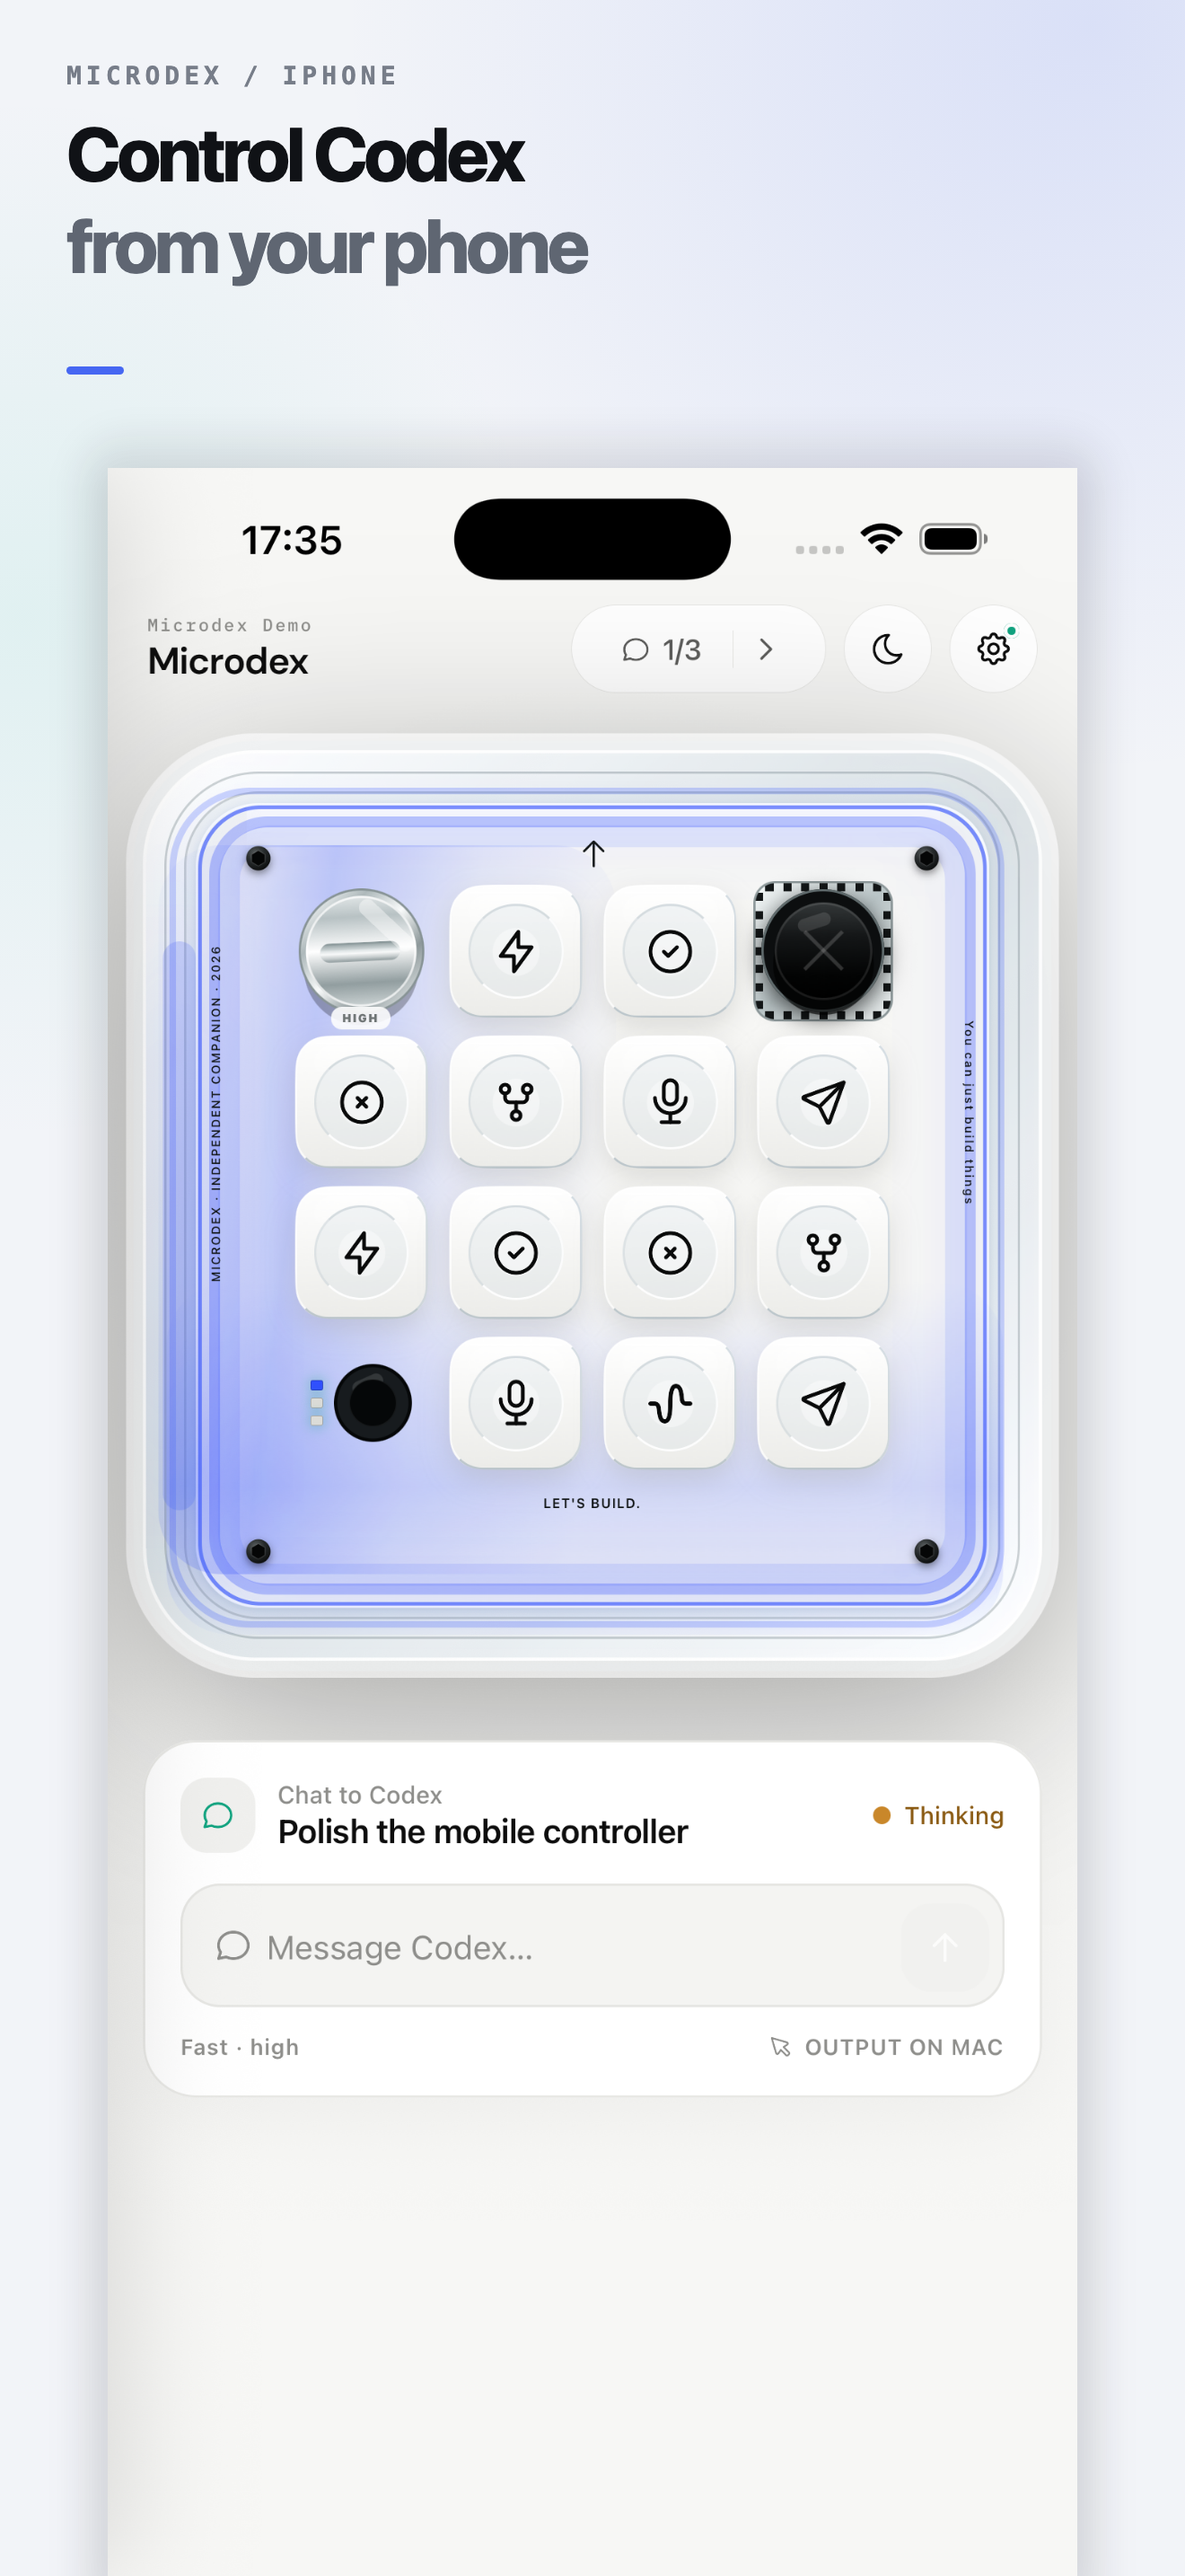
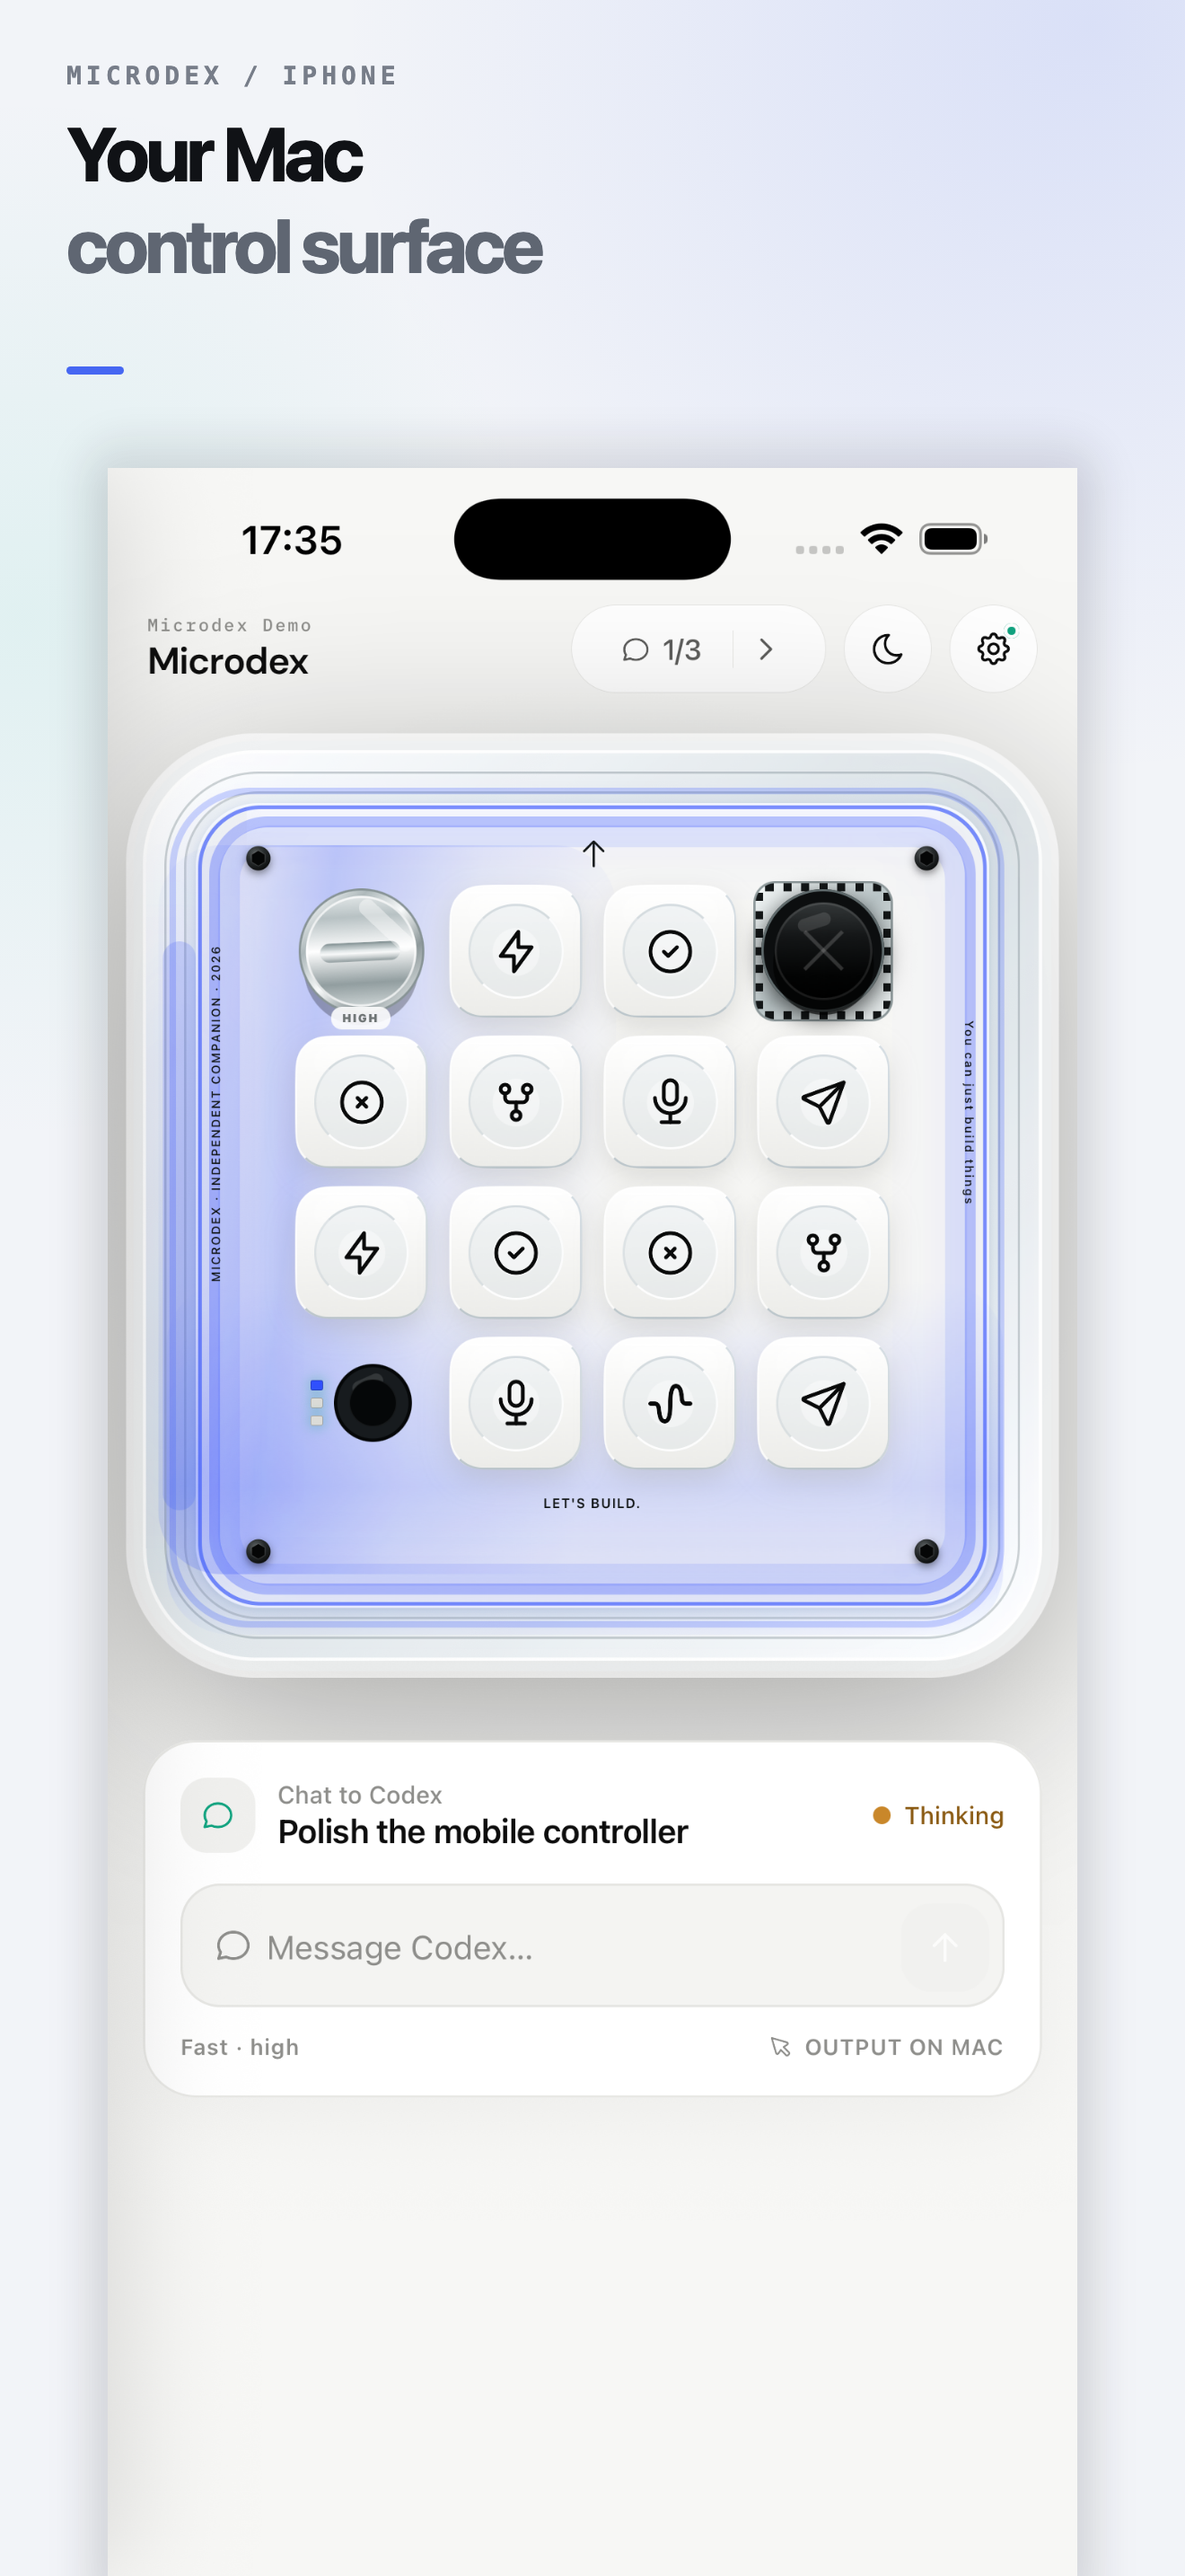
Corregge i rilievi di App Review

Changed region(s): [[0.0621, 0.031, 0.497, 0.1241]]

diff --git a/mobile/app/index.tsx b/mobile/app/index.tsx
@@ -1,4 +1,4 @@
-import { CameraView, useCameraPermissions } from 'expo-camera';
+import { CameraView } from 'expo-camera';
 import * as Clipboard from 'expo-clipboard';
 import * as Haptics from 'expo-haptics';
 import * as Linking from 'expo-linking';
@@ -46,6 +46,7 @@ import { ReasoningDial } from '@/components/reasoning-dial';
 import { DismissibleSheet, SheetHandlePill } from '@/components/sheet-dismiss-handle';
 import { RaisedShell, Screw, ShellPool, getSkeuo, useSkeuo } from '@/components/skeuo';
 import { VoiceKey } from '@/components/voice-key';
+import { usePairingScanner } from '@/hooks/use-pairing-scanner';
 import { useVoiceMode } from '@/hooks/use-voice-mode';
 import {
   BridgeStatus,
@@ -286,7 +287,6 @@ export default function ControllerScreen() {
   const chatDrawerRef = useRef<ChatDrawerHandle>(null);
   const liveStatusPulse = useRef(new Animated.Value(0.62)).current;
   const [settingsVisible, setSettingsVisible] = useState(false);
-  const [scannerVisible, setScannerVisible] = useState(false);
   const [consentVisible, setConsentVisible] = useState(false);
   const [consentContinuation, setConsentContinuation] =
     useState<ConsentContinuation>(null);
@@ -294,7 +294,6 @@ export default function ControllerScreen() {
   const [infoSheet, setInfoSheet] = useState<InfoSheet | null>(null);
   const [commandCopied, setCommandCopied] = useState(false);
   const commandCopiedTimer = useRef<ReturnType<typeof setTimeout> | null>(null);
-  const [cameraPermission, requestCameraPermission] = useCameraPermissions();
   const [credentialsReady, setCredentialsReady] = useState(VISUAL_PREVIEW);
   const [bridgeConnecting, setBridgeConnecting] = useState(false);
   const [loadingAction, setLoadingAction] = useState<string | null>(null);
@@ -467,6 +466,19 @@ export default function ControllerScreen() {
     setNotice(message);
     setNoticeError(isError);
   }, []);
+
+  const dismissSettingsForScanner = useCallback(() => {
+    setSettingsVisible(false);
+  }, []);
+  const {
+    scannerVisible,
+    scannerOpening,
+    setScannerVisible,
+    presentPairingScanner,
+  } = usePairingScanner({
+    announce,
+    dismissSettings: dismissSettingsForScanner,
+  });
 
   const bridgeRequest = useCallback(async <T,>(
     candidateUrl: string,
@@ -912,23 +924,6 @@ export default function ControllerScreen() {
       pairingInFlight.current = false;
     }
   }, [announce, connectToBridge]);
-
-  const presentPairingScanner = useCallback(async () => {
-    if (Platform.OS === 'web') {
-      announce('QR pairing is available on iPhone and Android.', true);
-      return;
-    }
-    let permission = cameraPermission;
-    if (!permission?.granted) permission = await requestCameraPermission();
-    if (!permission.granted) {
-      announce('Camera permission is needed to scan the pairing QR.', true);
-      return;
-    }
-    // iOS cannot reliably present the camera modal while the Settings modal
-    // is still being dismissed. Close it first, then present the scanner.
-    setSettingsVisible(false);
-    setTimeout(() => setScannerVisible(true), Platform.OS === 'ios' ? 320 : 0);
-  }, [announce, cameraPermission, requestCameraPermission]);
 
   const openPairingScanner = useCallback(async () => {
     if (!aiConsent) {
@@ -2266,13 +2261,21 @@ export default function ControllerScreen() {
                   </Pressable>
                   <Pressable
                     accessibilityRole="button"
+                    accessibilityState={{ busy: scannerOpening, disabled: scannerOpening }}
+                    disabled={scannerOpening}
                     onPress={() => void openPairingScanner()}
                     style={({ pressed }) => [
                       styles.gateSecondaryButton,
                       pressed && styles.gateButtonPressed,
                     ]}>
-                    <MicrodexIcon name="qrCode" size={17} color={theme.text} />
-                    <Text style={styles.gateSecondaryButtonText}>Pair another Mac</Text>
+                    {scannerOpening ? (
+                      <ActivityIndicator size="small" color={theme.text} />
+                    ) : (
+                      <MicrodexIcon name="qrCode" size={17} color={theme.text} />
+                    )}
+                    <Text style={styles.gateSecondaryButtonText}>
+                      {scannerOpening ? 'Opening camera…' : 'Pair another Mac'}
+                    </Text>
                   </Pressable>
                   <Pressable
                     accessibilityRole="button"
@@ -2345,13 +2348,21 @@ export default function ControllerScreen() {
 
                   <Pressable
                     accessibilityRole="button"
+                    accessibilityState={{ busy: scannerOpening, disabled: scannerOpening }}
+                    disabled={scannerOpening}
                     onPress={() => void openPairingScanner()}
                     style={({ pressed }) => [
                       styles.gatePrimaryButton,
                       pressed && styles.gateButtonPressed,
                     ]}>
-                    <MicrodexIcon name="qrCode" size={17} color={theme.bg} />
-                    <Text style={styles.gatePrimaryButtonText}>Scan pairing code</Text>
+                    {scannerOpening ? (
+                      <ActivityIndicator size="small" color={theme.bg} />
+                    ) : (
+                      <MicrodexIcon name="qrCode" size={17} color={theme.bg} />
+                    )}
+                    <Text style={styles.gatePrimaryButtonText}>
+                      {scannerOpening ? 'Opening camera…' : 'Scan pairing code'}
+                    </Text>
                   </Pressable>
 
                   <Pressable
@@ -3269,13 +3280,21 @@ export default function ControllerScreen() {
                 <Pressable
                   accessibilityRole="button"
                   accessibilityLabel="Scan computer pairing QR"
+                  accessibilityState={{ busy: scannerOpening, disabled: scannerOpening }}
+                  disabled={scannerOpening}
                   onPress={() => void openPairingScanner()}
                   style={({ pressed }) => [
                     styles.settingsPrimaryButton,
                     pressed && styles.gateButtonPressed,
                   ]}>
-                  <MicrodexIcon name="qrCode" size={16} color={theme.bg} />
-                  <Text style={styles.settingsPrimaryButtonText}>Scan pairing code</Text>
+                  {scannerOpening ? (
+                    <ActivityIndicator size="small" color={theme.bg} />
+                  ) : (
+                    <MicrodexIcon name="qrCode" size={16} color={theme.bg} />
+                  )}
+                  <Text style={styles.settingsPrimaryButtonText}>
+                    {scannerOpening ? 'Opening camera…' : 'Scan pairing code'}
+                  </Text>
                 </Pressable>
                 {noticeError ? (
                   <View style={[styles.notice, styles.noticeError]}>

diff --git a/mobile/hooks/use-pairing-scanner.ts b/mobile/hooks/use-pairing-scanner.ts
@@ -1,0 +1,100 @@
+import { useCameraPermissions } from 'expo-camera';
+import * as Haptics from 'expo-haptics';
+import * as Linking from 'expo-linking';
+import { useCallback, useRef, useState } from 'react';
+import { Alert, Platform } from 'react-native';
+
+import {
+  cameraPermissionMessage,
+  cameraPermissionStep,
+} from '@/lib/pairing-scanner';
+
+type UsePairingScannerOptions = {
+  announce: (message: string, isError?: boolean) => void;
+  dismissSettings: () => void;
+};
+
+const IOS_MODAL_DISMISS_MS = 450;
+
+export function usePairingScanner({
+  announce,
+  dismissSettings,
+}: UsePairingScannerOptions) {
+  const [cameraPermission, requestCameraPermission] = useCameraPermissions();
+  const [scannerVisible, setScannerVisible] = useState(false);
+  const [scannerOpening, setScannerOpening] = useState(false);
+  const openingRef = useRef(false);
+
+  const presentPairingScanner = useCallback(async () => {
+    if (openingRef.current) return;
+    openingRef.current = true;
+    setScannerOpening(true);
+
+    try {
+      if (Platform.OS === 'web') {
+        announce('QR pairing is available on iPhone and Android.', true);
+        return;
+      }
+
+      let permission = cameraPermission;
+      let step = cameraPermissionStep(permission);
+      if (step === 'request') {
+        announce('Requesting camera access…');
+        permission = await requestCameraPermission();
+        step = cameraPermissionStep(permission);
+      }
+
+      if (step !== 'open') {
+        const message = cameraPermissionMessage(step);
+        announce(message, true);
+        await Haptics.notificationAsync(Haptics.NotificationFeedbackType.Error);
+        Alert.alert(
+          'Camera access needed',
+          message,
+          step === 'settings'
+            ? [
+                { text: 'Not now', style: 'cancel' },
+                {
+                  text: 'Open Settings',
+                  onPress: () => void Linking.openSettings(),
+                },
+              ]
+            : [{ text: 'OK' }],
+        );
+        return;
+      }
+
+      announce('Opening the QR scanner…');
+      dismissSettings();
+      await new Promise<void>((resolve) => {
+        setTimeout(resolve, Platform.OS === 'ios' ? IOS_MODAL_DISMISS_MS : 0);
+      });
+      setScannerVisible(true);
+    } catch (error) {
+      const detail = error instanceof Error ? error.message : 'Unknown camera error';
+      announce(`Could not open the camera: ${detail}`, true);
+      await Haptics.notificationAsync(Haptics.NotificationFeedbackType.Error);
+      Alert.alert(
+        'Could not open camera',
+        'Try again. If the problem continues, enable Camera for Microdex in Settings.',
+        [
+          { text: 'Not now', style: 'cancel' },
+          {
+            text: 'Open Settings',
+            onPress: () => void Linking.openSettings(),
+          },
+        ],
+      );
+    } finally {
+      openingRef.current = false;
+      setScannerOpening(false);
+    }
+  }, [announce, cameraPermission, dismissSettings, requestCameraPermission]);
+
+  return {
+    scannerVisible,
+    scannerOpening,
+    setScannerVisible,
+    presentPairingScanner,
+  };
+}

diff --git a/mobile/lib/pairing-scanner.ts b/mobile/lib/pairing-scanner.ts
@@ -1,0 +1,21 @@
+export type CameraPermissionSnapshot = {
+  granted: boolean;
+  canAskAgain?: boolean;
+} | null;
+
+export type CameraPermissionStep = 'open' | 'request' | 'settings';
+
+export function cameraPermissionStep(
+  permission: CameraPermissionSnapshot,
+): CameraPermissionStep {
+  if (permission?.granted) return 'open';
+  if (permission?.canAskAgain === false) return 'settings';
+  return 'request';
+}
+
+export function cameraPermissionMessage(step: CameraPermissionStep) {
+  if (step === 'settings') {
+    return 'Camera access is disabled. Enable Camera in Settings to scan the pairing QR.';
+  }
+  return 'Camera permission is needed to scan the pairing QR.';
+}

diff --git a/mobile/store/screenshots/template.html b/mobile/store/screenshots/template.html
@@ -95,8 +95,8 @@
     <div class="screen"><img id="capture" alt="Microdex interface" /></div>
     <script>
       const scenes = {
-        controller: ['Control Codex', 'from your phone', 'controller.png'],
-        workflow: ['Your Codex workflow,', 'anywhere', 'workflow.png'],
+        controller: ['Your Mac', 'control surface', 'controller.png'],
+        workflow: ['Your workflow,', 'anywhere', 'workflow.png'],
         voice: ['Control Voice Chat', 'on your Mac', 'voice.png'],
         controls: ['Build your own', 'control deck', 'controls.png'],
         onboarding: ['One scan.', 'End-to-end encrypted.', 'onboarding.png'],

diff --git a/docs/APP_STORE_METADATA.md b/docs/APP_STORE_METADATA.md
@@ -12,7 +12,7 @@ Microdex Remote
 
 **Subtitle**
 
-Control Codex from your phone
+Your Mac control surface
 
 **Primary category**
 
@@ -24,9 +24,8 @@ Productivity
 
 **Promotional text**
 
-Control your Codex workflow from your iPhone with secure pairing, programmable
-keys, chat, Voice Chat controls, and an offline experience that works without a
-Mac.
+A focused Mac control surface with secure pairing, programmable keys, messaging,
+voice controls, and a complete offline demo.
 
 **Keywords**
 
@@ -76,8 +75,8 @@ Use fictional task names and content in every image. Capture the production
 build rather than Expo Go. Do not show personal notifications, account names,
 pairing QR codes, bridge URLs, tokens, or real task content.
 
-1. Main controller — `Control Codex from your phone`
-2. Task and chat drawer — `Your Codex workflow, anywhere`
+1. Main controller — `Your Mac control surface`
+2. Task and chat drawer — `Your workflow, anywhere`
 3. Voice Chat control — `Control Voice Chat on your Mac`
 4. Programmable keys — `Build your own control deck`
 5. Secure pairing — `One scan. End-to-end encrypted.`
@@ -123,6 +122,10 @@ use Tabler Icons under the MIT License, with notices included in the app and
 repository. Product-specific marks and text glyphs are original Microdex work.
 The integration uses the Codex App Server supplied with the user's installed
 Codex runtime; Microdex does not impersonate first-party hardware.
+
+China mainland is excluded from availability because this release depends on
+OpenAI-related functionality and metadata. Do not enable that storefront without
+the required permits and a separate legal review.
 
 ## App Privacy working answers
 

diff --git a/docs/APP_REVIEW_RUNBOOK.md b/docs/APP_REVIEW_RUNBOOK.md
@@ -42,6 +42,16 @@ Suggested review instructions:
 4. Voice Chat and dictation execute on the review Mac; the iPhone does not
    capture or relay microphone audio.
 
+For the resubmission after the August 24, 2026 review:
+
+- confirm **China mainland is deselected** in Availability;
+- explain that the subtitle and promotional text no longer use third-party
+  product names;
+- state that the scanner now displays progress on every tap, waits for modal
+  dismissal on iOS/iPadOS compatibility mode, and presents a visible recovery
+  dialog with an Open Settings action when camera access is unavailable;
+- test the clean-install scanner flow on both iPhone and iPad compatibility mode.
+
 ## Revoke after review
 
 Run:

diff --git a/docs/APP_STORE_RELEASE.md b/docs/APP_STORE_RELEASE.md
@@ -3,6 +3,13 @@
 This checklist describes the current app and relay. Revisit it whenever an SDK,
 analytics service, permission, or data flow changes.
 
+## China mainland
+
+Microdex depends on functionality and metadata that reference OpenAI services.
+Keep **China mainland deselected** in App Store Connect availability unless the
+required local permits and legal review have been completed. Confirm the
+exclusion immediately before every submission and state it in Review Notes.
+
 ## Export compliance
 
 Microdex implements XChaCha20-Poly1305 through `@noble/ciphers` in addition to
